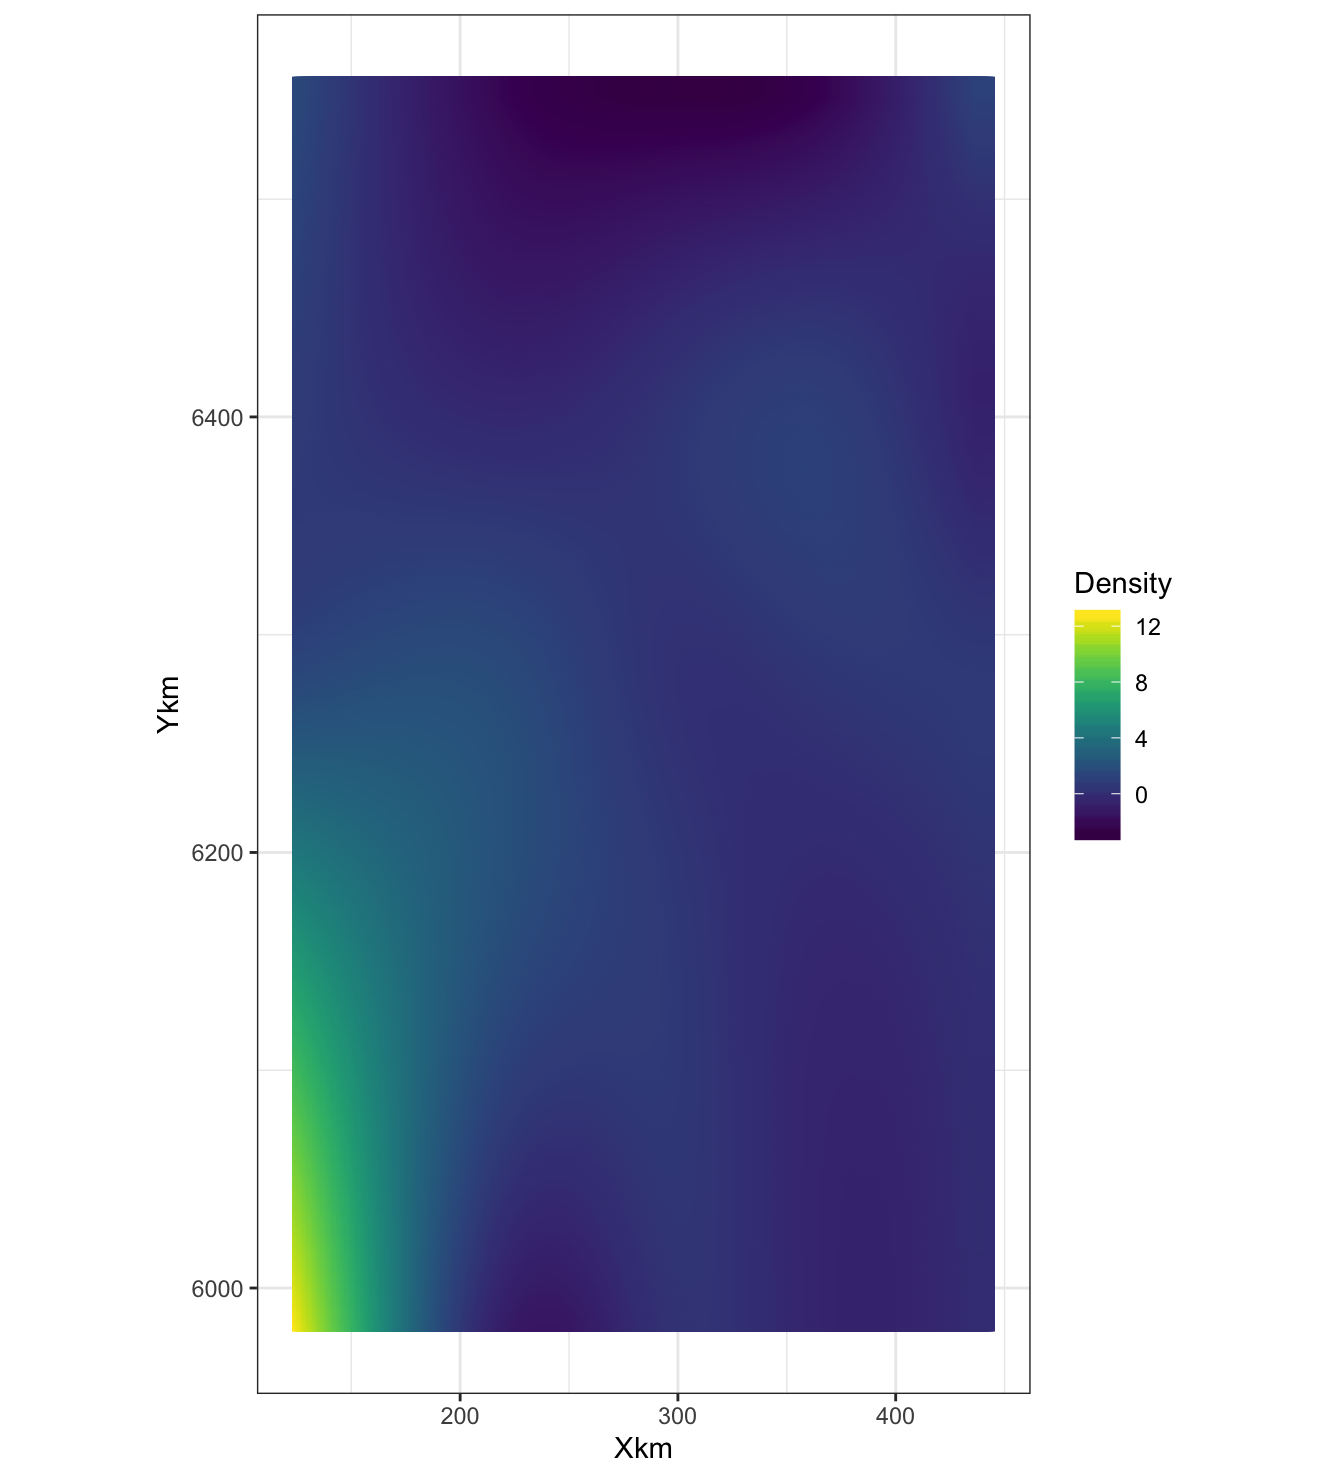
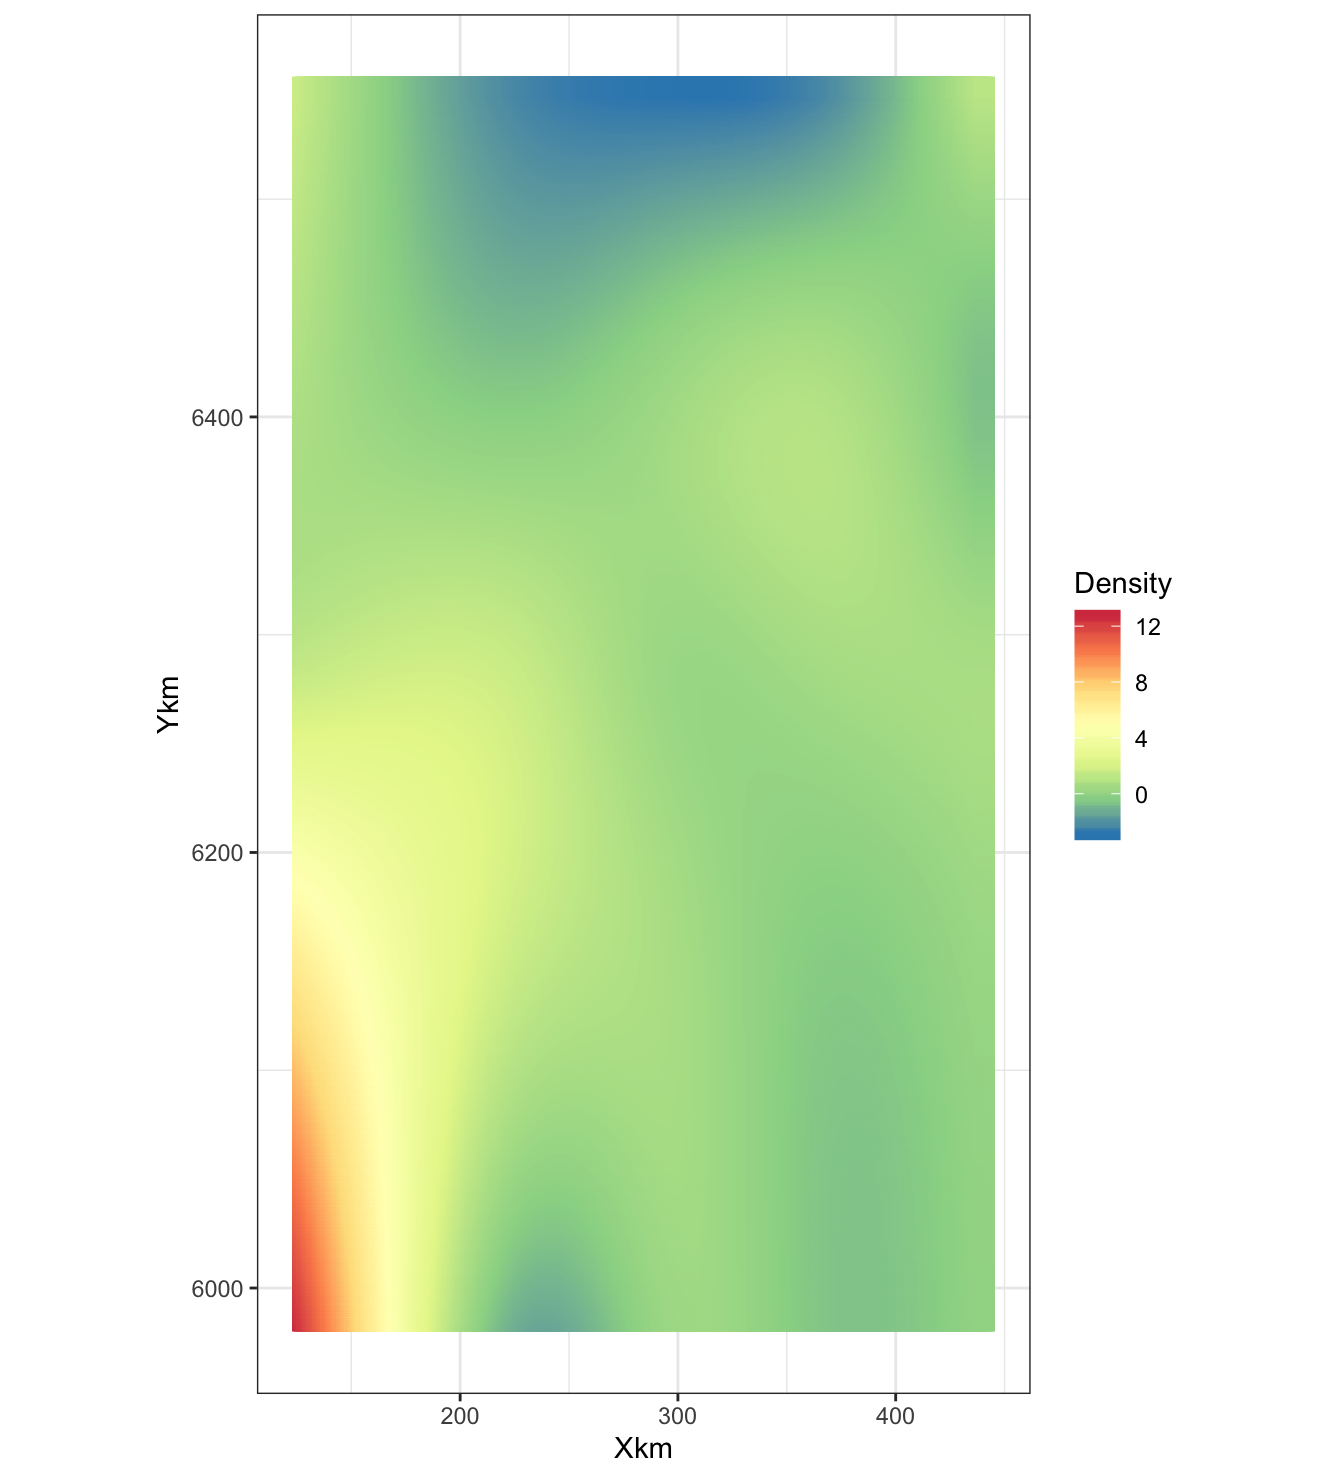
updated smooth plots

diff --git a/docs/3_gam.html b/docs/3_gam.html
@@ -856,9 +856,7 @@ overdispersion(m3)</code></pre>
 ## te(TimeH,DayInYear)  22.24  23.48  69.51 6.27e-06
 ## te(Xkm,Ykm,Year)     90.42 101.74 708.13  &lt; 2e-16</code></pre>
 <p>We can visiualise the two smooths in the model that are deemed significant by the anova test:</p>
-<pre class="r"><code>layout(matrix(1:2, nrow = 1))
-
-# Plot X,Y smooth
+<pre class="r"><code># Plot X,Y smooth
 vis.gam(m3, 
         # Covariates we want to visualise
         view = c(&quot;Xkm&quot;,&quot;Ykm&quot;), 
@@ -871,9 +869,9 @@ vis.gam(m3,
         # Pick colour scheme
         color = &quot;topo&quot;, 
         # Give plot a title
-        main = &quot; te(Xkm, Ykm)&quot;)
-
-# Plot TimeH,DayInYear smooth
+        main = &quot; te(Xkm, Ykm)&quot;)</code></pre>
+<p><img src="3_gam_files/figure-html/viz-1.png" width="960" style="display: block; margin: auto;" /></p>
+<pre class="r"><code># Plot TimeH,DayInYear smooth
 vis.gam(m3, 
         # Covariates we want to visualise
         view = c(&quot;TimeH&quot;,&quot;DayInYear&quot;), 
@@ -887,7 +885,7 @@ vis.gam(m3,
         color = &quot;topo&quot;, 
         # Give plot a title
         main = &quot;te(TimeH, DayInYear)&quot;)</code></pre>
-<p><img src="3_gam_files/figure-html/viz-1.png" width="672" style="display: block; margin: auto;" /></p>
+<p><img src="3_gam_files/figure-html/viz-2.png" width="960" style="display: block; margin: auto;" /></p>
 <p>It seems that for the <code>te(X,Y)</code> smooth the response is concentrated towards the south-west of the area. The <code>te(TimeH, DayInYear)</code> smooth is perhaps more difficult to interpret. It appears that the effect on the response variable is more significant at the start of the year, than at the end.</p>
 </div>
 </div>
@@ -924,7 +922,7 @@ m3_data %&gt;%
   geom_tile(aes(x=Xkm, y=Ykm, fill = Nhat, width = 10, height = 10)) +
   coord_equal() +
   labs(fill=&quot;Density&quot;) +
-  scale_fill_viridis() +
+  scale_fill_distiller(palette = &quot;Spectral&quot;) +
   theme_bw()</code></pre>
 <p><img src="3_gam_files/figure-html/m3_predict-1.png" width="672" style="display: block; margin: auto;" /></p>
 <p>We can see that there is a slight increase in observed gannet density in the south west corner of the map. If we sum every cell in the grid we should get the total gannet abundance at the time specified above (middle of 2002):</p>
